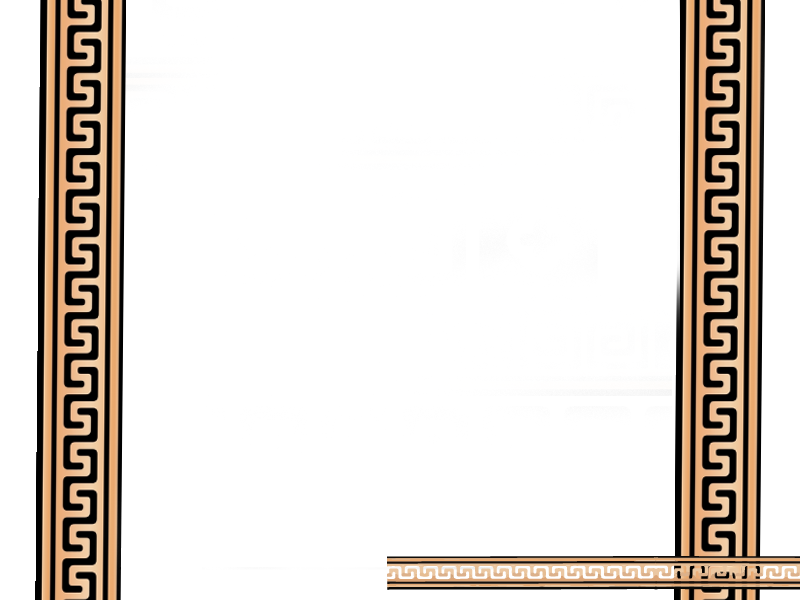
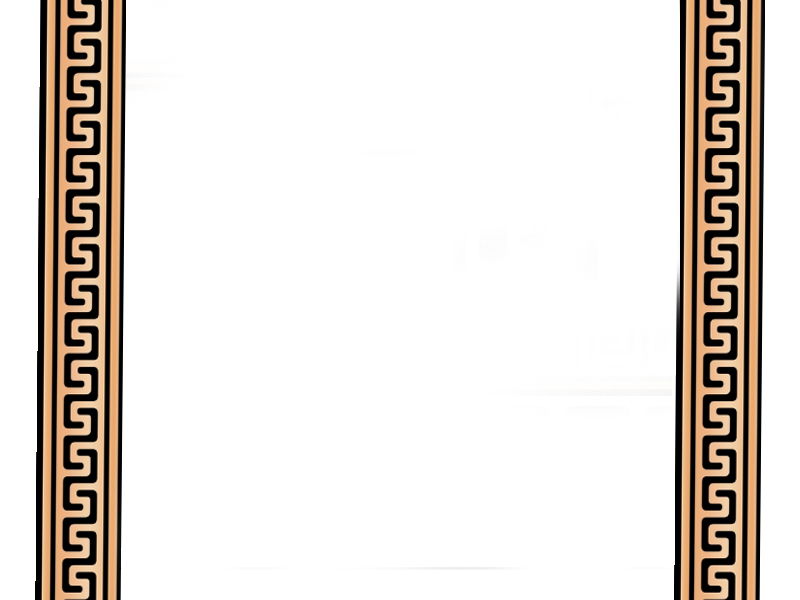
Fix fancy loading

Changed region(s): [[0.4688, 0.9, 1.0, 0.99]]

diff --git a/prototipo/src/LoadingScreen.cpp b/prototipo/src/LoadingScreen.cpp
@@ -4,9 +4,11 @@
 LoadingScreen::LoadingScreen(std::string title, std::string subtitle, int amount):
     progressBar(390, 570, 400, 20, 100, 0),
     bg(NULL),
+    loadingBar(NULL),
     amount(amount),
     percent(0)
 {
+    this->loadingBar = new Sprite("img/barrinha.png");
     this->titleFont    = new Font("ttf/UbuntuMono.ttf", 42);
     this->subtitleFont = new Font("ttf/UbuntuMono.ttf", 20);
 
@@ -46,6 +48,7 @@ void LoadingScreen::increase(unsigned int ammount)
         this->progressBar.increase(ammount);
 
     this->progressBar.render();
+    this->loadingBar->render(387,565);
     Window::refresh();
 }
 void LoadingScreen::set(unsigned int ammount)

diff --git a/prototipo/src/GameStateMainMenu.cpp b/prototipo/src/GameStateMainMenu.cpp
@@ -19,7 +19,7 @@ void GameStateMainMenu::load(int stack)
     UNUSED(stack);
 
     LoadingScreen loading("Loading...");
-    loading.setBg("img/loading2.png");
+    loading.setBg("img/loading.png");
     loading.increase(0);
     loading.setSubtitle("loading loading screen...");
 

diff --git a/prototipo/src/LoadingScreen.hpp b/prototipo/src/LoadingScreen.hpp
@@ -51,6 +51,7 @@ private:
     ProgressBar progressBar;
 
     Sprite* bg; ///< Background of the loading screen.
+    Sprite* loadingBar; ///< Fancy loading
 
     int amount; ///< How many objects will be loaded
     int percent; ///< How much loading bar will be increased
